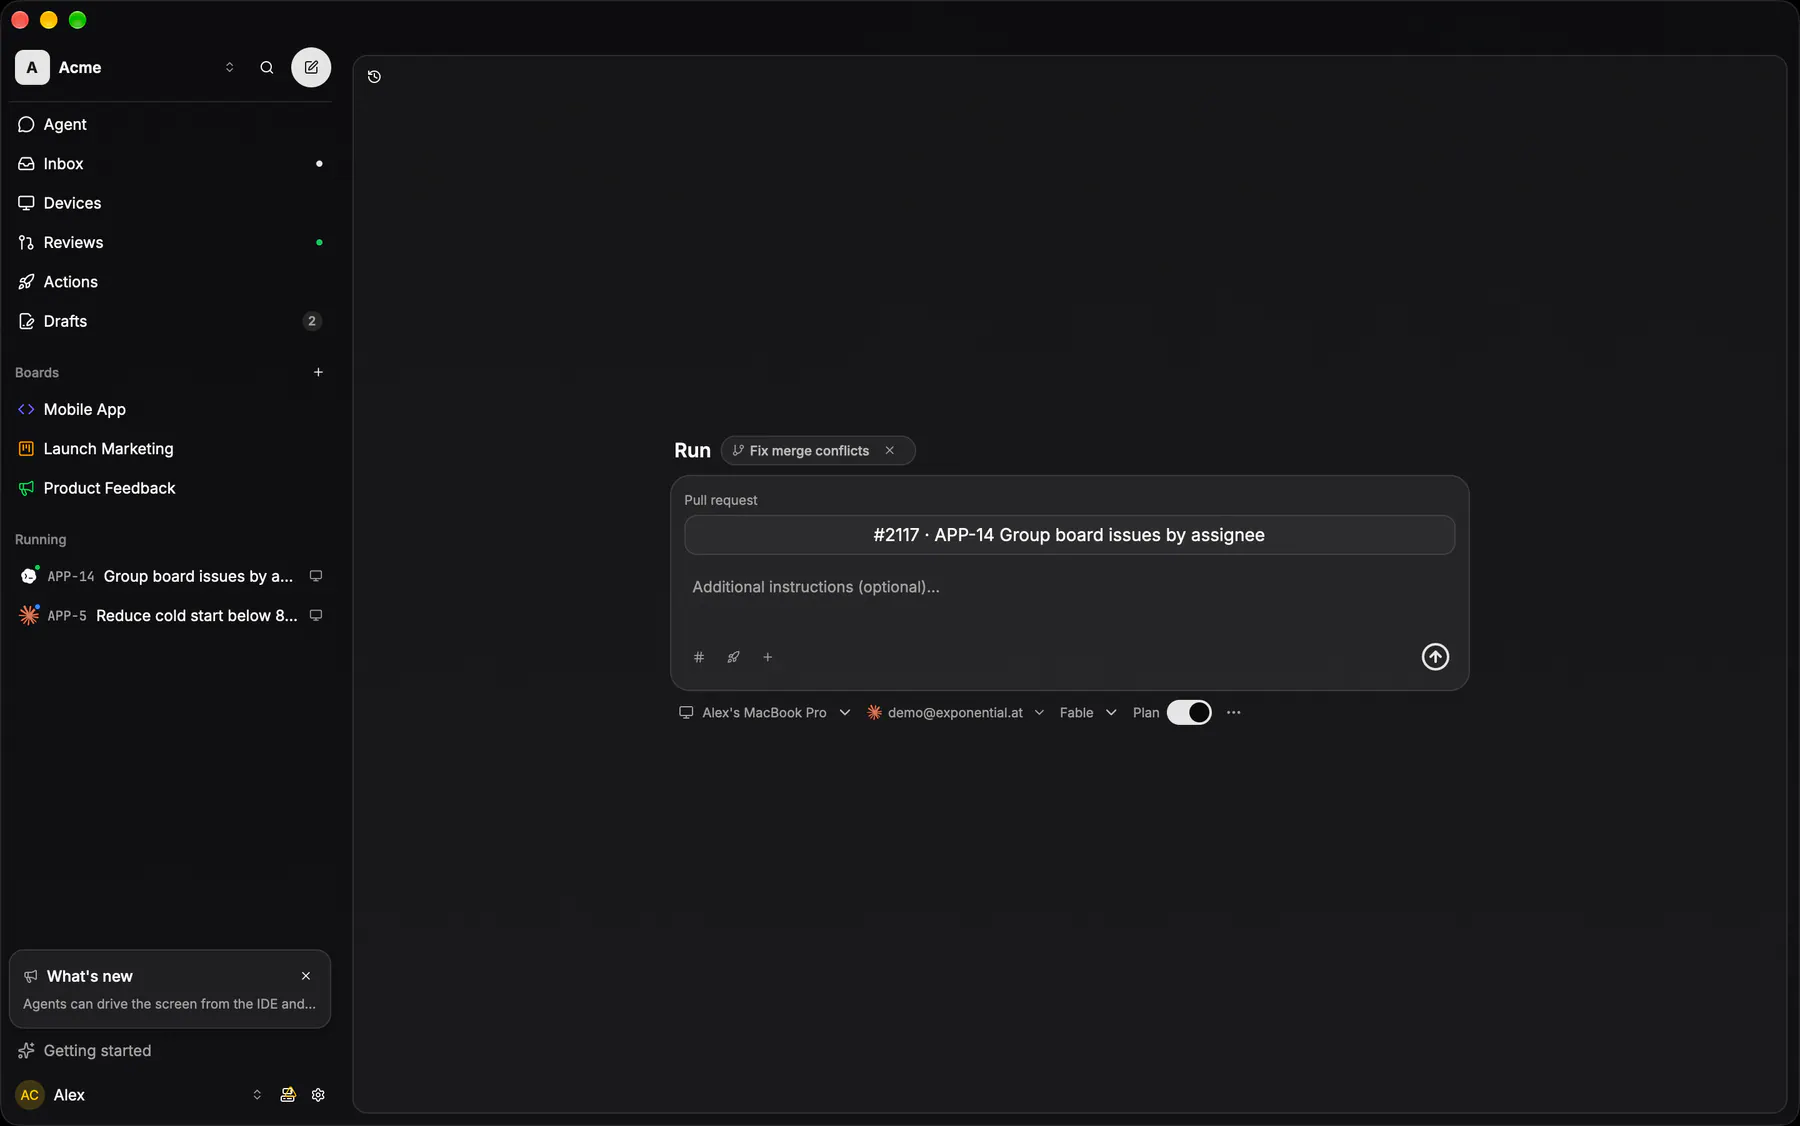
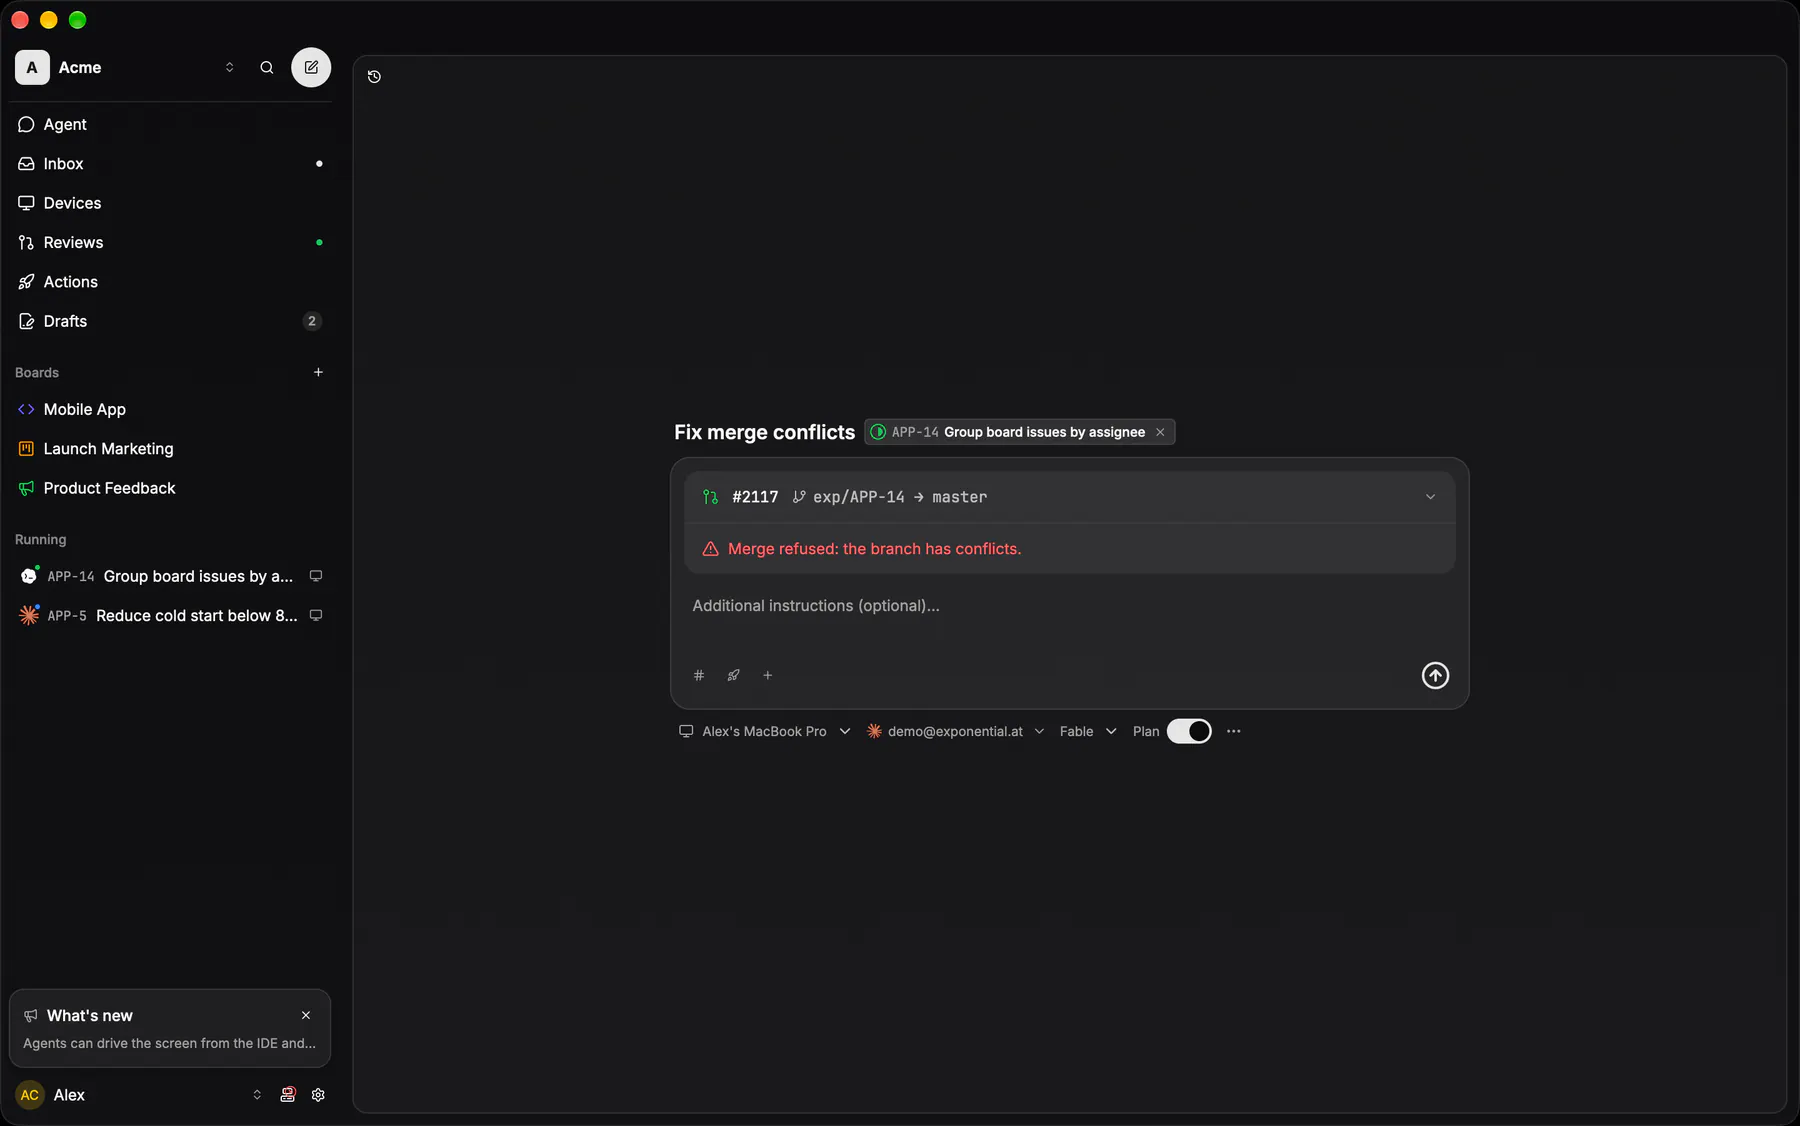
EXP-1233: the Agent route reads ?conflict=1 as the router's number too; chat-action shots ×3 (web, web-mobile, desktop)

diff --git a/apps/web/src/routes/t/$teamSlug/agent.tsx b/apps/web/src/routes/t/$teamSlug/agent.tsx
@@ -36,6 +36,10 @@ const RecentRunsIcon = conceptIcon(`settings-sessions`)
 
 const str = (value: unknown): string | undefined =>
   typeof value === `string` && value !== `` ? value : undefined
+// EXP-1233: `?conflict=1` — the router parses a bare `1` as a NUMBER, so the
+// flag is normalised back to the seed's string form here.
+const flag = (value: unknown): string | undefined =>
+  value === `1` || value === 1 || value === true ? `1` : undefined
 
 // EXP-818: the team's AGENT page — the composer over the caller's sessions
 // list (Running, then Past). EXP-825 made that composer THE launcher: issues,
@@ -79,7 +83,7 @@ export const Route = createFileRoute(`/t/$teamSlug/agent`)({
     device: str(search.device),
     text: str(search.text),
     icon: str(search.icon),
-    conflict: str(search.conflict),
+    conflict: flag(search.conflict),
     from: str(search.from),
   }),
   beforeLoad: async ({ context, location }) => {
